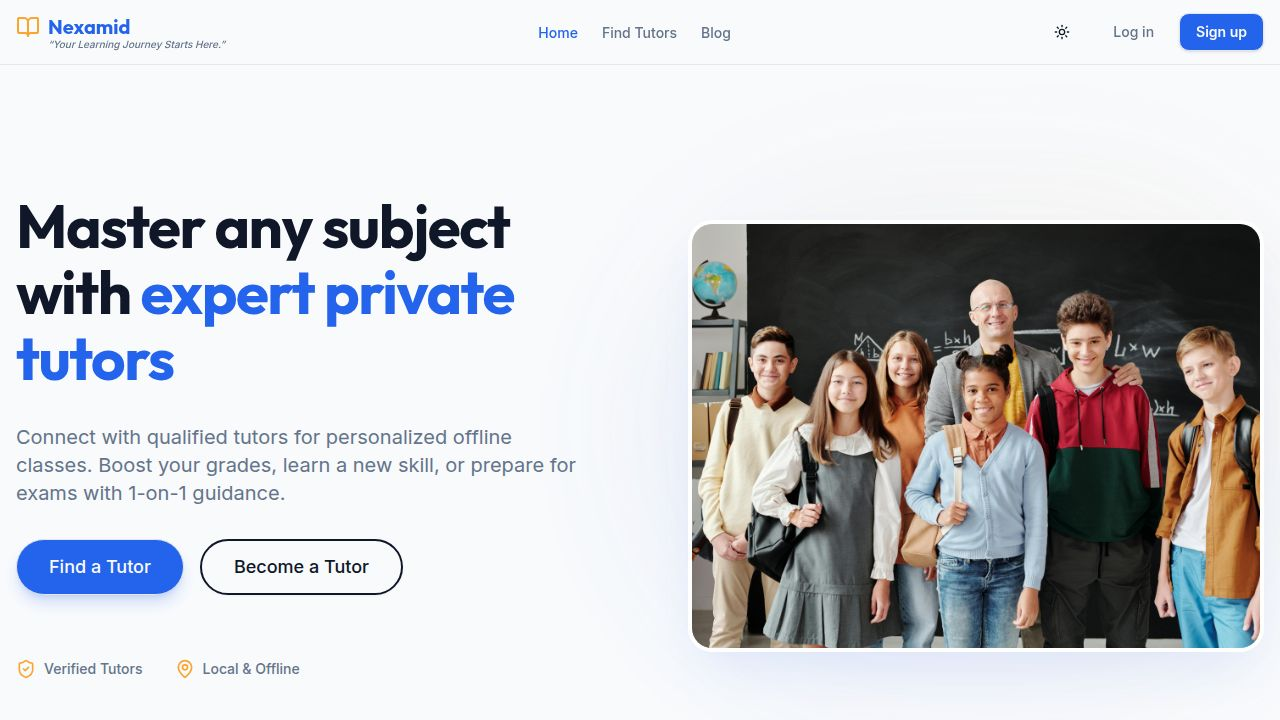
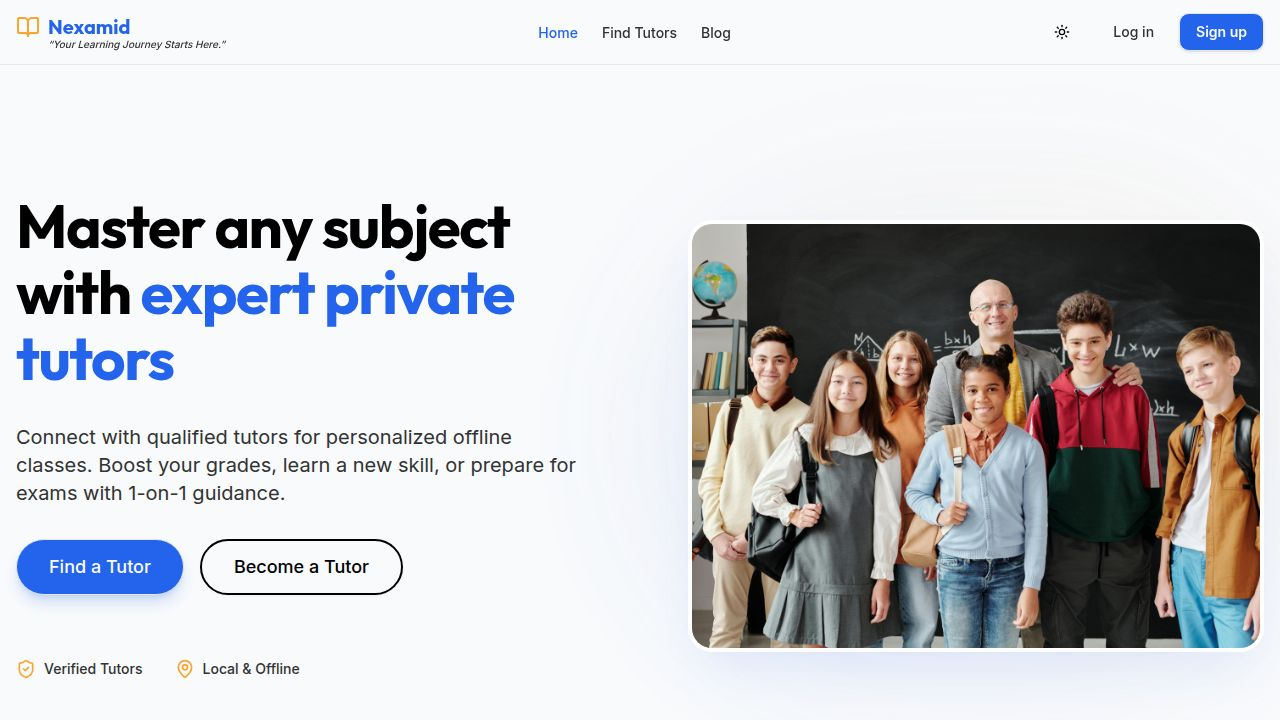
Remove office details from contact page and update text color
Removes phone number and office location from the contact page form and changes the app's global text color to black.

Replit-Commit-Author: Agent
Replit-Commit-Session-Id: 905c3e5a-708e-4a37-a309-4130283fd217
Replit-Commit-Checkpoint-Type: full_checkpoint
Replit-Commit-Event-Id: e7d6717b-943c-4aa9-b2e6-75dacdc9695a
Replit-Commit-Screenshot-Url: https://storage.googleapis.com/screenshot-production-us-central1/de17f69f-1613-47f3-ae30-7c235067846d/905c3e5a-708e-4a37-a309-4130283fd217/qfF2XBf
Replit-Helium-Checkpoint-Created: true

diff --git a/client/src/pages/contact.tsx b/client/src/pages/contact.tsx
@@ -40,24 +40,6 @@ export default function Contact() {
                     <p className="text-muted-foreground">support@nexamid.com</p>
                   </div>
                 </div>
-                <div className="flex items-start gap-4">
-                  <div className="bg-primary/10 p-3 rounded-full text-primary">
-                    <Phone className="h-6 w-6" />
-                  </div>
-                  <div>
-                    <h4 className="font-bold">Call Us</h4>
-                    <p className="text-muted-foreground">+91 (800) 123-4567</p>
-                  </div>
-                </div>
-                <div className="flex items-start gap-4">
-                  <div className="bg-primary/10 p-3 rounded-full text-primary">
-                    <MapPin className="h-6 w-6" />
-                  </div>
-                  <div>
-                    <h4 className="font-bold">Our Office</h4>
-                    <p className="text-muted-foreground">Mumbai, Maharashtra, India</p>
-                  </div>
-                </div>
               </div>
             </div>
           </div>

diff --git a/client/src/index.css b/client/src/index.css
@@ -64,14 +64,14 @@
 :root {
   /* Cool Light Gray Background */
   --background: 210 40% 98%;
-  --foreground: 222 47% 11%;
+  --foreground: 0 0% 0%;
 
   /* Clean White Cards */
   --card: 0 0% 100%;
-  --card-foreground: 222 47% 11%;
+  --card-foreground: 0 0% 0%;
 
   --popover: 0 0% 100%;
-  --popover-foreground: 222 47% 11%;
+  --popover-foreground: 0 0% 0%;
 
   /* Trustworthy Blue */
   --primary: 221 83% 53%;
@@ -79,14 +79,14 @@
 
   /* Energetic Orange/Yellow for Learning/Action */
   --secondary: 35 95% 58%;
-  --secondary-foreground: 222 47% 11%;
+  --secondary-foreground: 0 0% 0%;
 
   /* Soft Muted tones */
   --muted: 210 40% 96.1%;
-  --muted-foreground: 215.4 16.3% 46.9%;
+  --muted-foreground: 0 0% 20%;
 
   --accent: 210 40% 96.1%;
-  --accent-foreground: 222.2 47.4% 11.2%;
+  --accent-foreground: 0 0% 0%;
 
   --destructive: 0 84.2% 60.2%;
   --destructive-foreground: 210 40% 98%;
